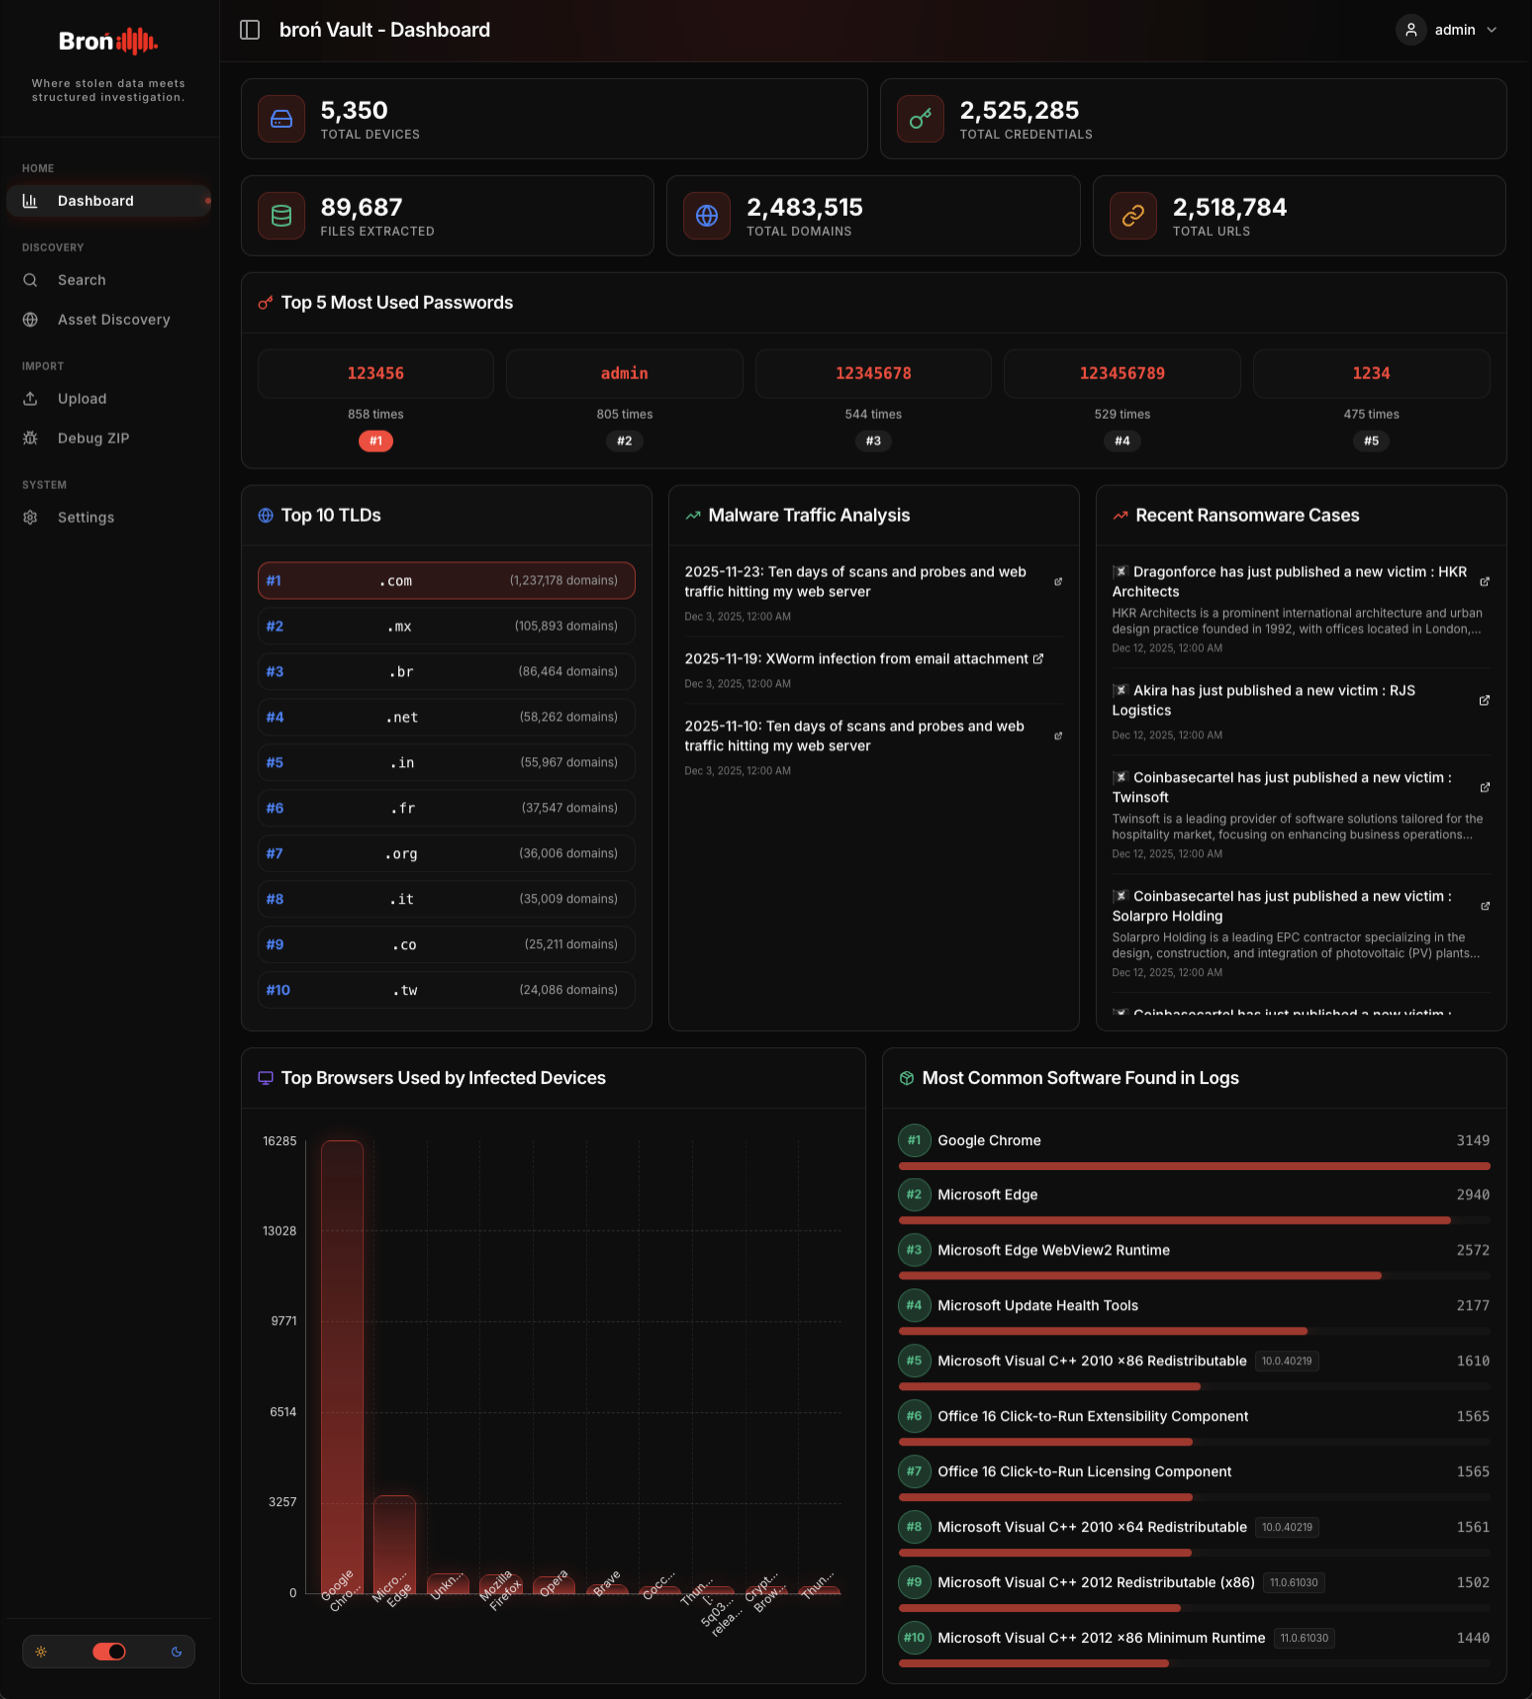
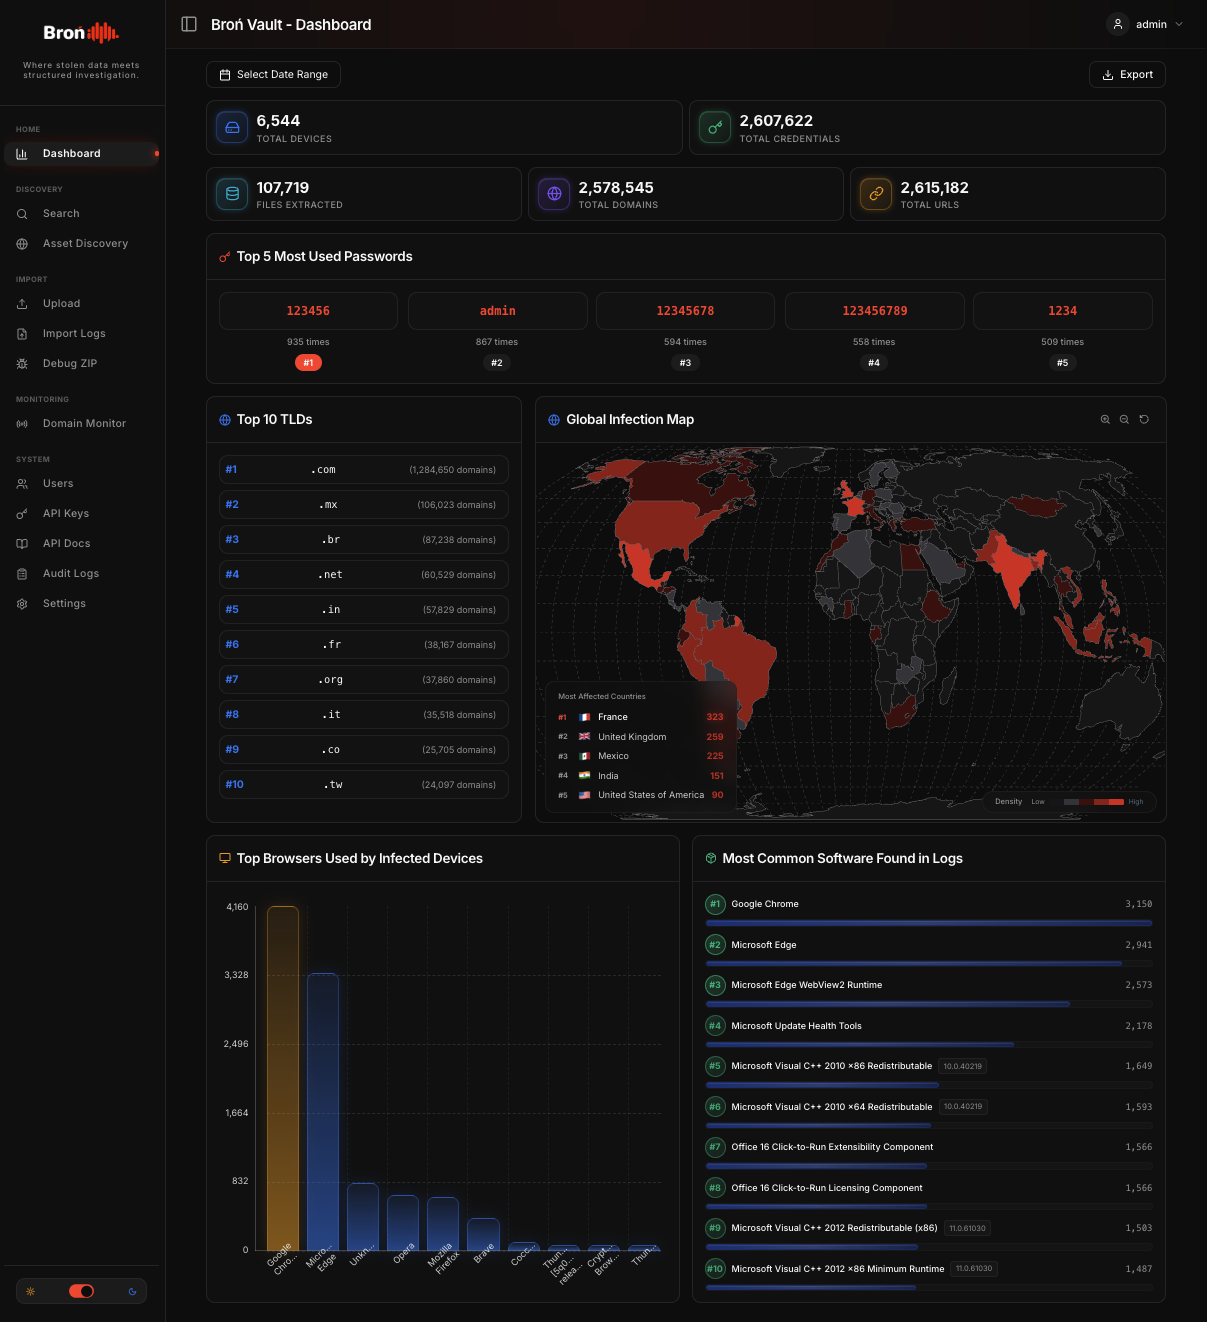
Enhance README and UI components for improved user experience
- Updated README.md to include advanced search query options, domain monitoring features, S3-compatible storage details, roles for access control, and API v1 specifications.
- Modified SearchInterface.tsx to improve button styling and accessibility.
- Updated several images to reflect recent changes in the application interface.

diff --git a/components/search/SearchInterface.tsx b/components/search/SearchInterface.tsx
@@ -157,9 +157,9 @@ export function SearchInterface({
             <button
               type="button"
               onClick={() => setShowBuilder(!showBuilder)}
-              className="flex items-center gap-1.5 text-xs text-muted-foreground/60 hover:text-primary transition"
+              className="flex items-center gap-2 rounded-full px-4 py-2 text-sm text-foreground/75 bg-muted/40 border border-primary/20 hover:border-primary/35 hover:bg-primary/5 transition-colors focus:outline-none focus:ring-2 focus:ring-primary/20 focus:ring-offset-2 focus:ring-offset-background [&>svg]:text-primary/70"
             >
-              <Blocks className="h-3.5 w-3.5" />
+              <Blocks className="h-4 w-4 shrink-0" />
               {showBuilder ? "Switch to text mode" : "Switch to visual query builder"}
             </button>
           </div>

diff --git a/README.md b/README.md
@@ -20,6 +20,7 @@ Our goal is to support the day-to-day needs of security teams on the front lines
     
   * **Advanced Search**: Instantly find credentials and pivot to the full context of the breach.
     - Search by specific email addresses or entire domains across all logs.
+    - Combine terms with **OR** (`,`), **AND** (`+`), or **NOT** (`-`) for more precise queries.
     - A successful match reveals a "Supporting Files" tab with all data from the same device.
     - Seamlessly explore correlated cookies, browser history, and system files in a single click.
 
@@ -54,10 +55,27 @@ Our goal is to support the day-to-day needs of security teams on the front lines
       - Top 10 TLDs
       - Top 10 most affected browsers
       - Top 10 most used software
-        
+      - **Country heatmap**: World map showing compromised devices by country for geographic insight at a glance.
+
+  * **Domain Monitoring**: Watch domains of interest and get notified when new uploads contain matching credentials or URLs.
+    - Define monitors with one or more domains and match by credential (email/username), URL, or both.
+    - Attach webhook endpoints (e.g. Slack, custom APIs) to each monitor to receive alerts with device and match details.
+    - View alert history and webhook delivery status in the Domain Monitoring UI.
+
+  * **S3-Compatible Object Storage**: Store uploaded files in object storage instead of the local filesystem.
+    - Supports **AWS S3**, **MinIO**, and any S3-compatible service; optional MinIO service is included in the Docker setup.
+    - Configure endpoint, bucket, and credentials in Settings → Storage; optionally migrate existing local files to S3 in one go.
+
   * **Debug-Zip Utility**: Perform a quick check on `.zip` files to analyze their internal structure, ensure they match supported formats, and flag directories missing a password file.
-    
-  * **Simple RSS Feeds**: Integrated RSS feeds from **ransomware.live** and **malware-traffic-analysis.net** to keep you updated on the latest threats.
+
+  * **Roles**: Two built-in roles for access control.
+    - **Admin**: Full access — upload data, manage settings, users, domain monitors and webhooks, audit logs, and API keys.
+    - **Analyst**: Read and search access — dashboard, search, device and domain discovery; cannot upload, change settings, or manage users/monitors.
+
+  * **API (v1)**: REST API with API-key auth for search, lookup, and upload.
+    - Create and manage API keys in the API Keys page; each key has a role (admin or analyst) and optional rate limit and expiry.
+    - **Search**: `GET /api/v1/search/credentials` and `GET /api/v1/search/domain` for credential and domain/keyword search.
+    - **Upload**: `POST /api/v1/upload` (admin keys only) with async job tracking via `GET /api/v1/upload/status/{jobId}`.
   
 ![alt text](images/Bron-Vault-Search-1.png "Bron Vault Search 1")
 
